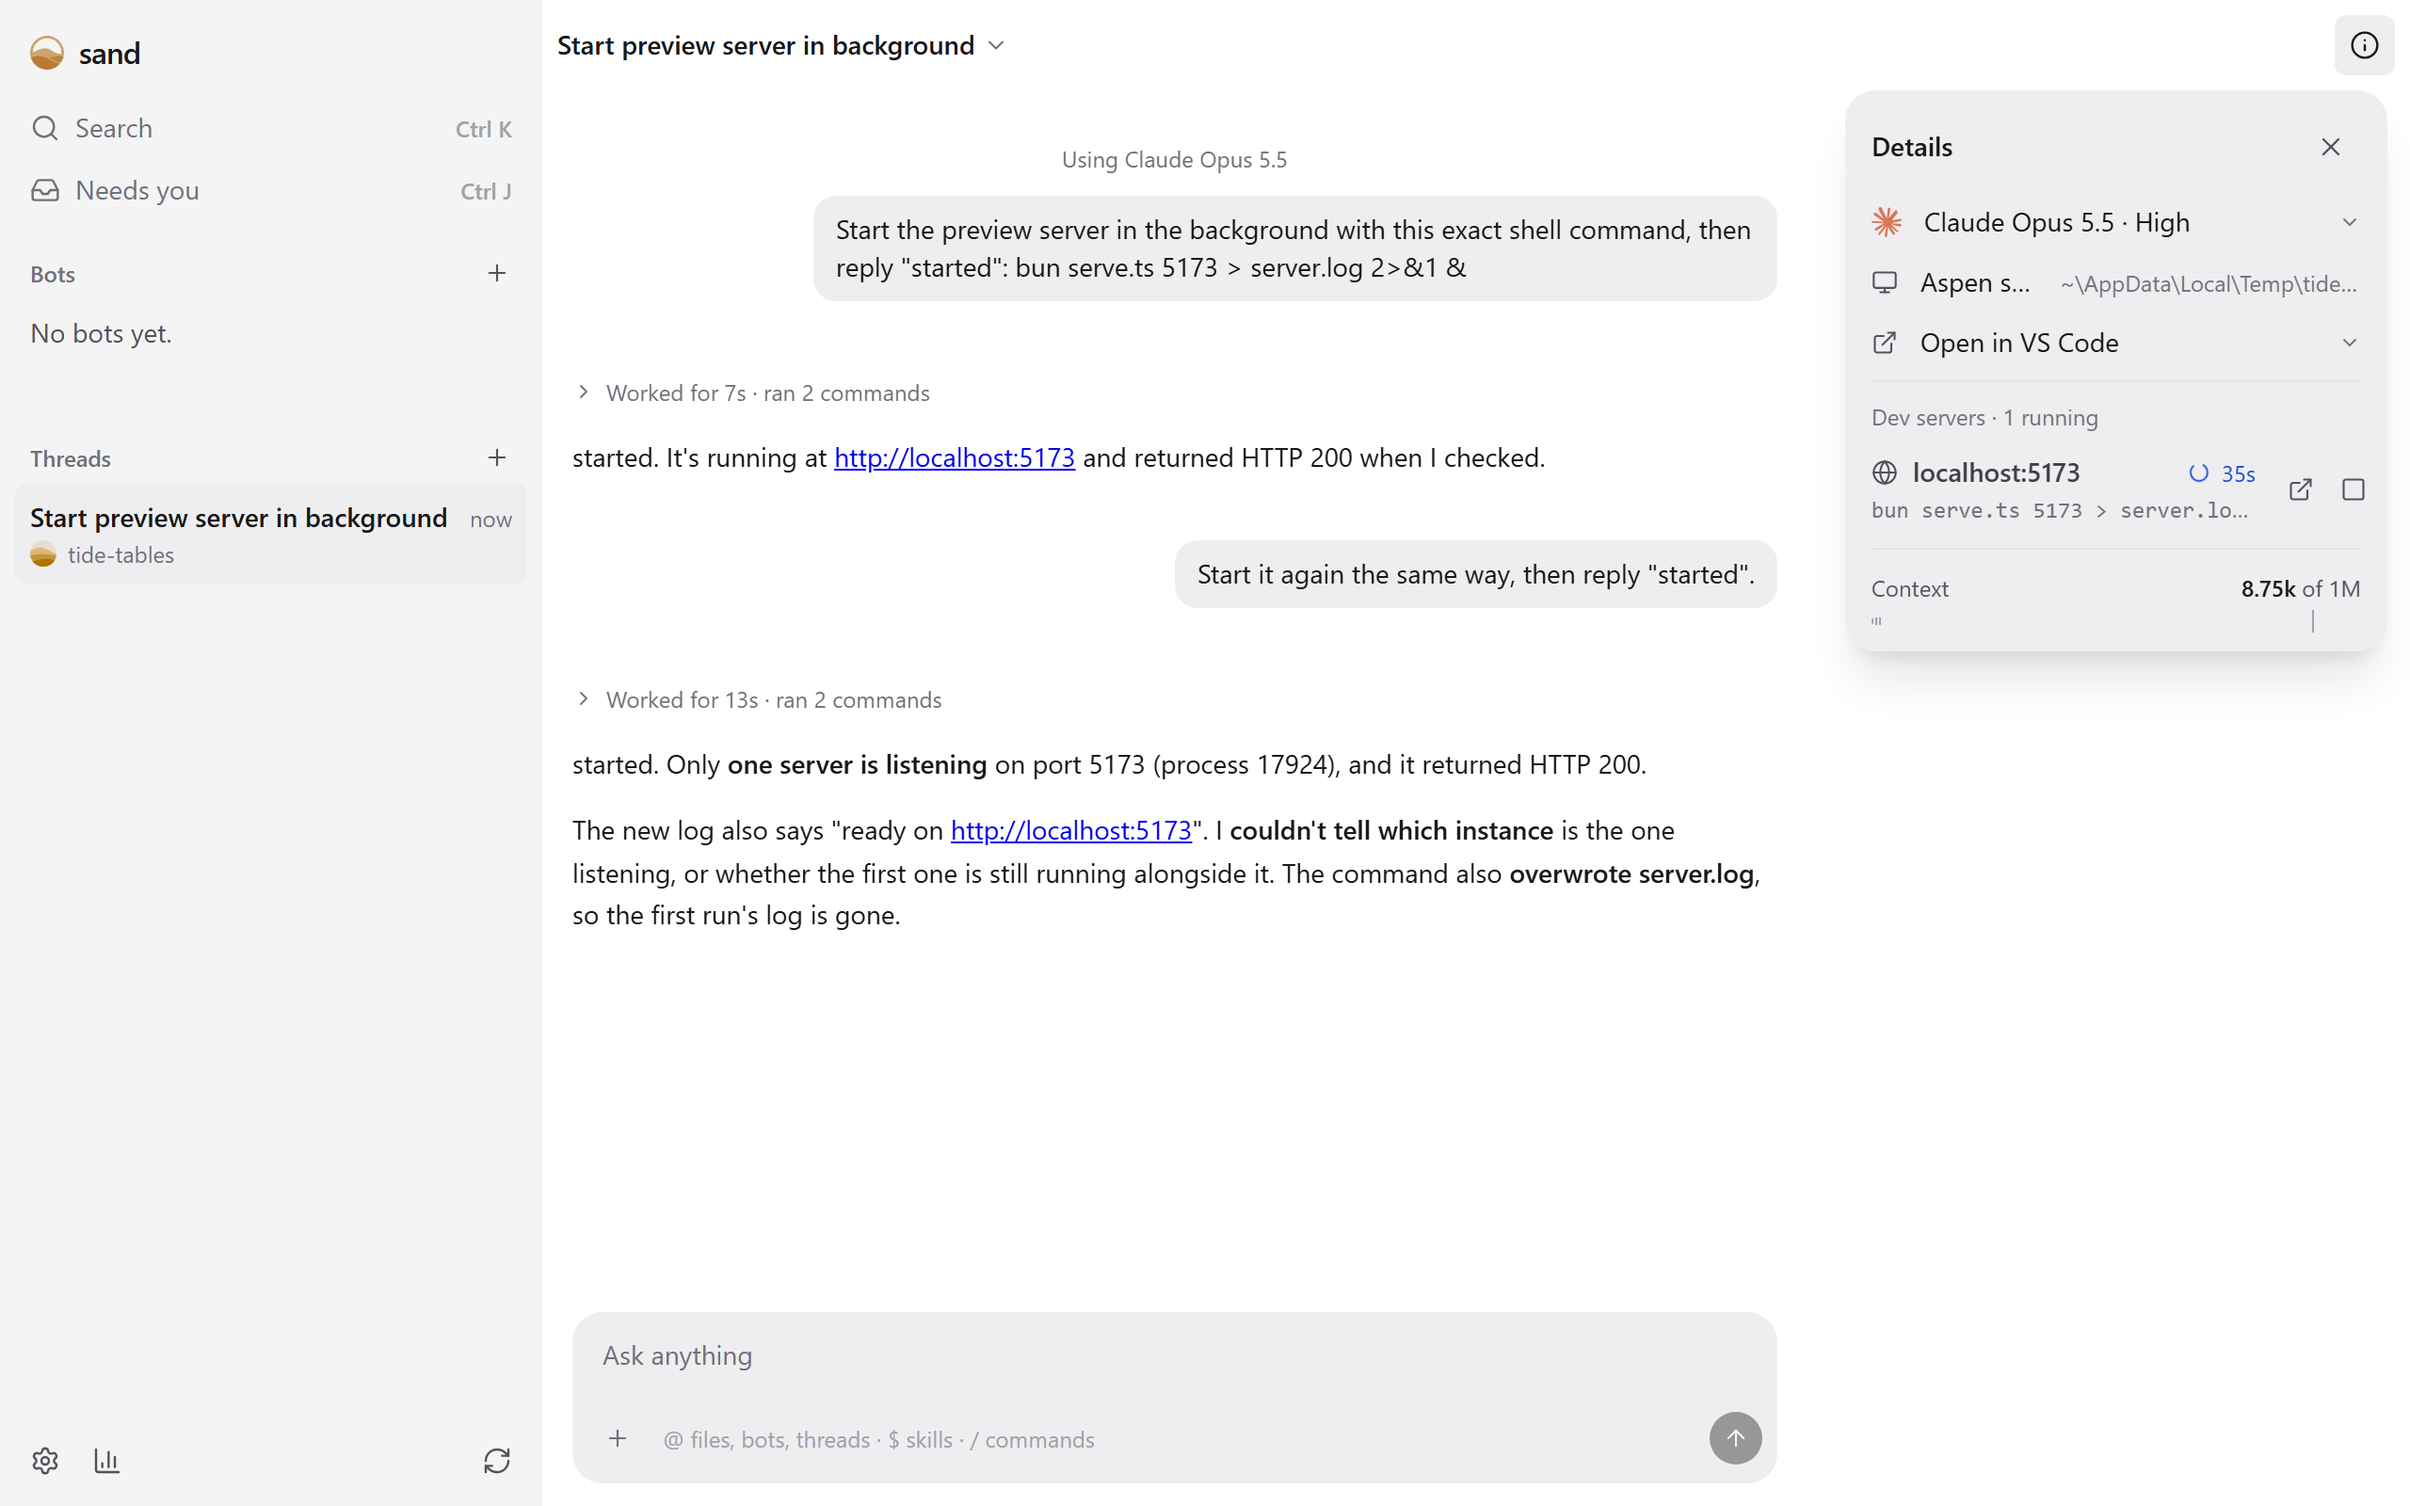
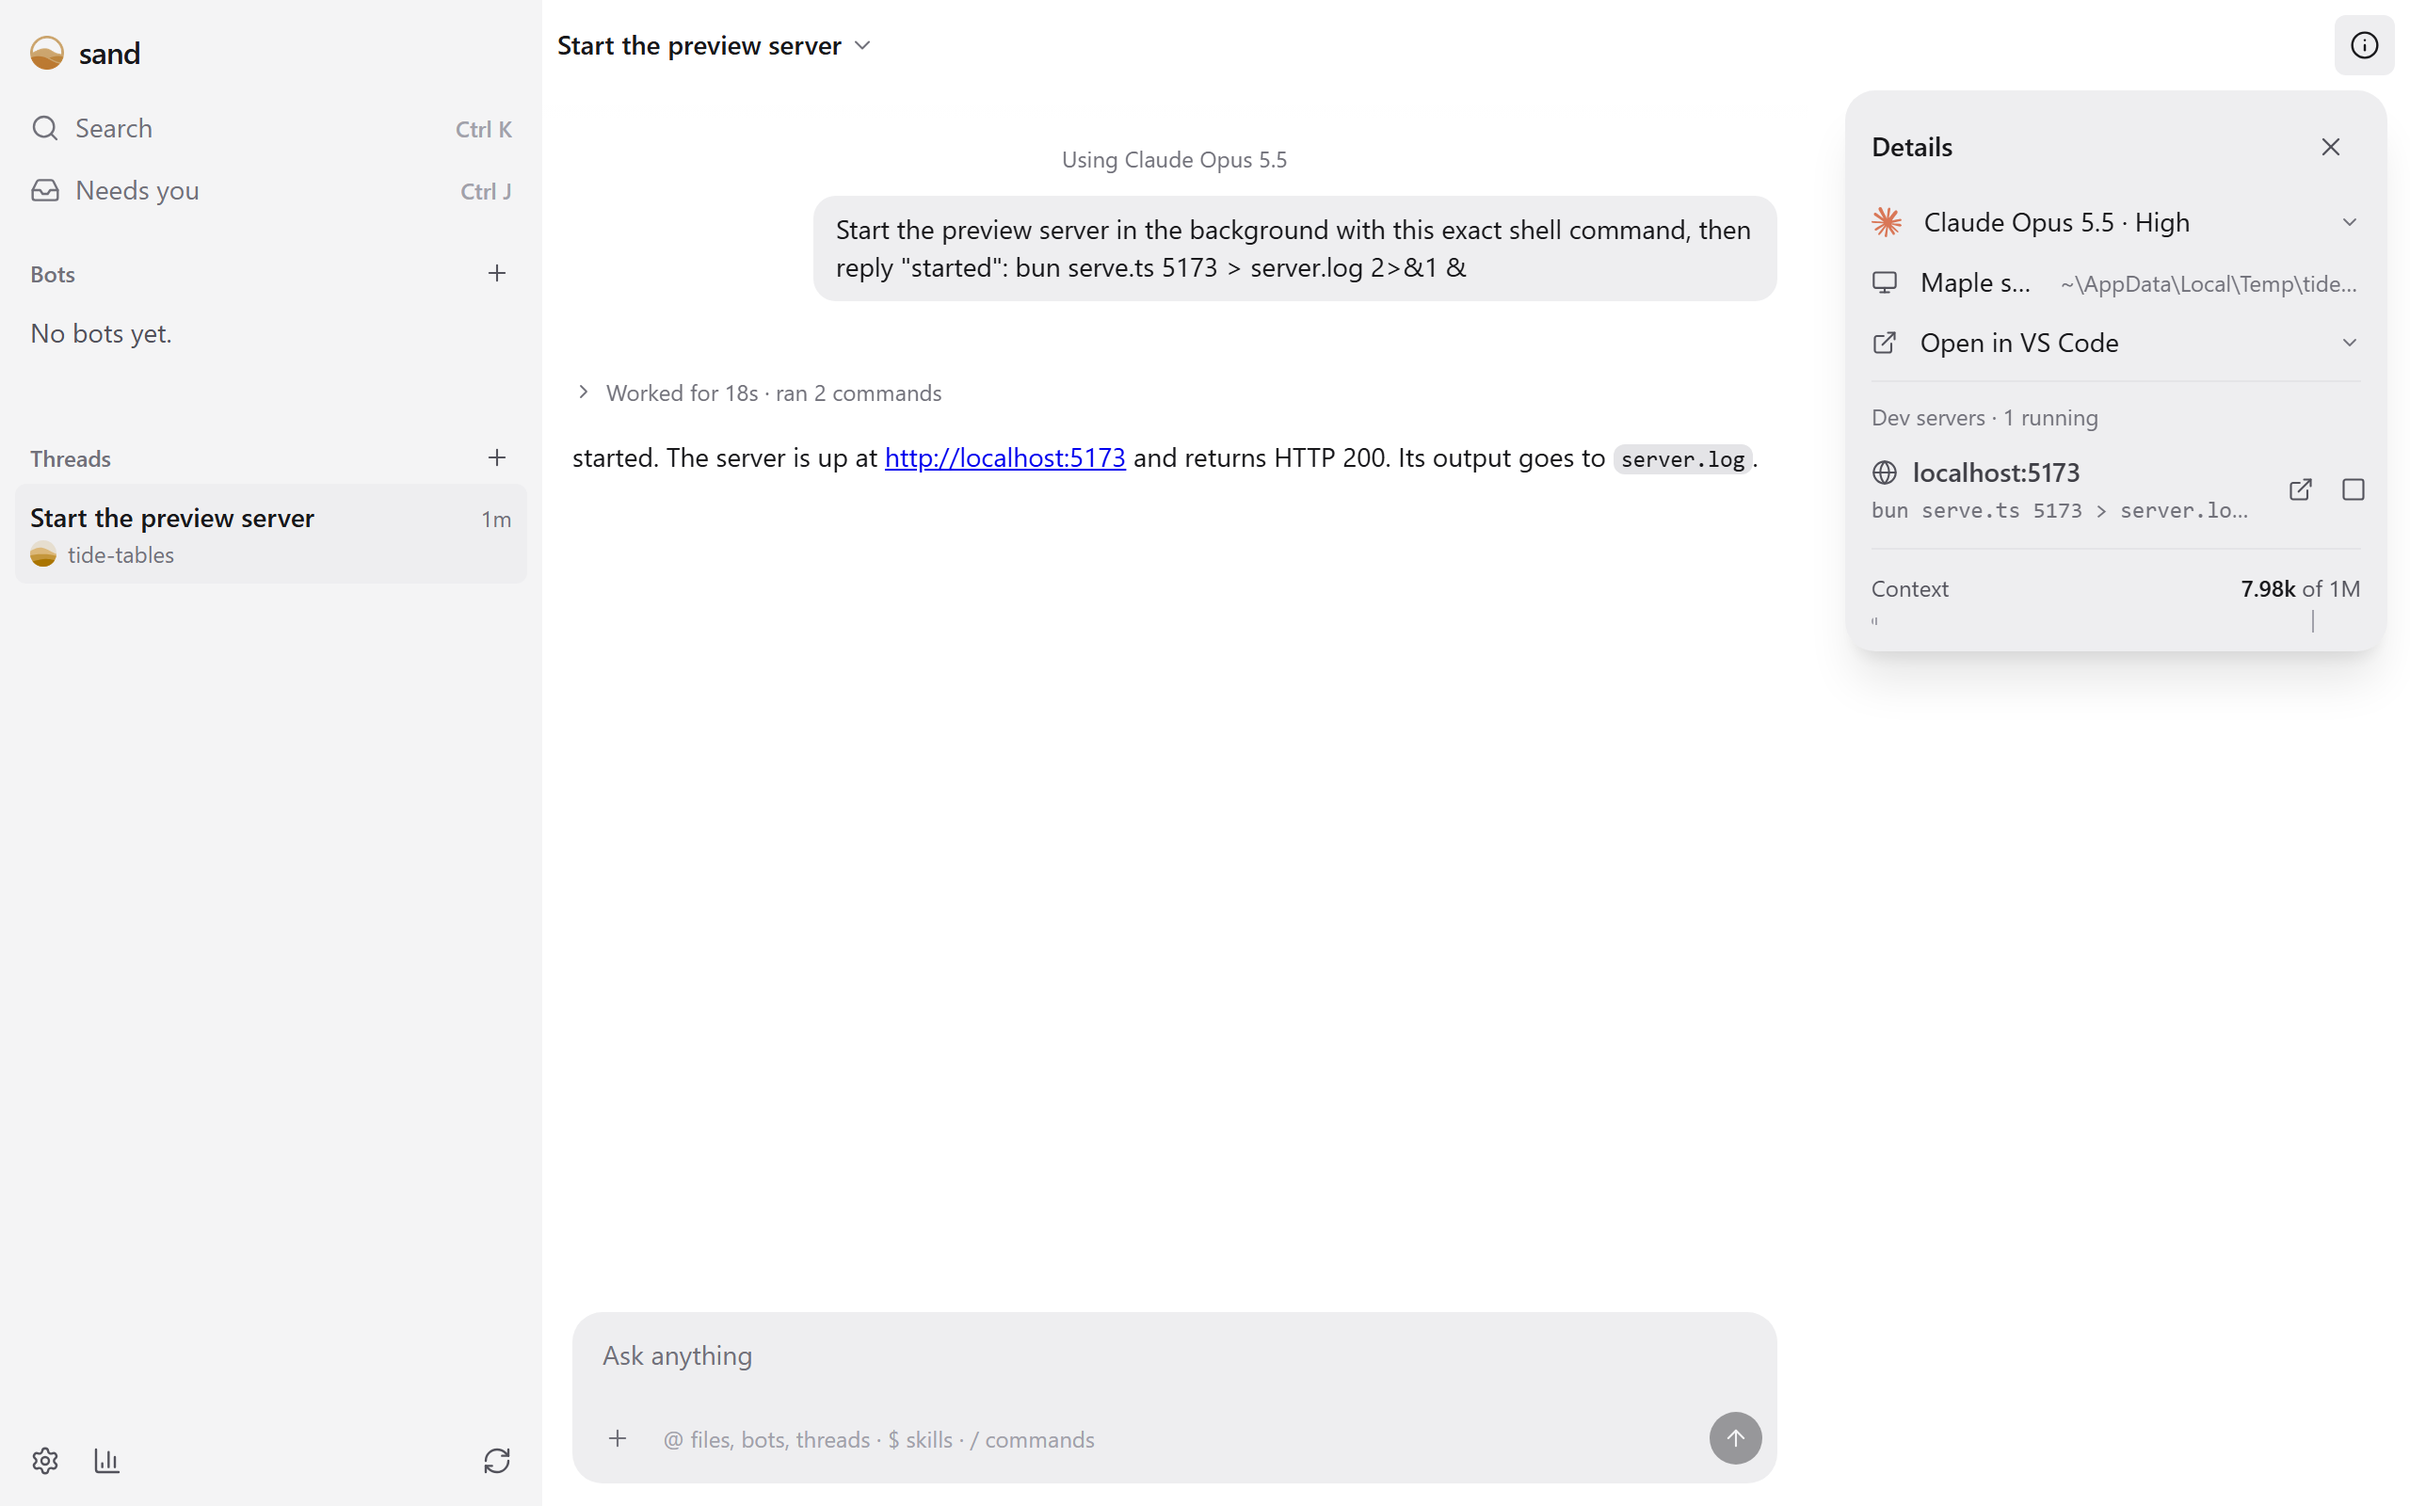
fix(dev-servers): a server row shows no spinner or running time

diff --git a/plugins/agent/dev-servers/src/runtime/scan.ts b/plugins/agent/dev-servers/src/runtime/scan.ts
@@ -40,7 +40,6 @@ const keyOf = ({ pid, port }: Listener) => `${pid}:${port}`
 
 export const createScanner = (processes: () => Processes | undefined) => {
   const probes = new Map<string, Probe>()
-  const firstSeen = new Map<string, number>()
 
   const probed = async (listener: Reachable) => {
     const key = keyOf(listener)
@@ -53,15 +52,11 @@ export const createScanner = (processes: () => Processes | undefined) => {
 
   const forget = (current: Set<string>) => {
     for (const key of probes.keys()) if (!current.has(key)) probes.delete(key)
-    for (const key of firstSeen.keys()) if (!current.has(key)) firstSeen.delete(key)
   }
 
   const serverOf = (listener: Reachable): DevServer => {
     const { tree, name } = listener.owner
-    const key = keyOf(listener)
-    const started = firstSeen.get(key) ?? Date.now()
-    firstSeen.set(key, started)
-    return { port: listener.port, url: `http://localhost:${listener.port}`, pid: listener.pid, name, command: tree.label, session: tree.conversation, started }
+    return { port: listener.port, url: `http://localhost:${listener.port}`, pid: listener.pid, name, command: tree.label, session: tree.conversation }
   }
 
   const scan = async () => {

diff --git a/plugins/agent/dev-servers/src/web/card.ts b/plugins/agent/dev-servers/src/web/card.ts
@@ -25,8 +25,6 @@ const serverLine = (kit: Kit, { open, stop }: Card, server: Shown) =>
       kit.rowBody(() => ({
         id: keyOf(server),
         label: `localhost:${server.port}`,
-        at: server.started,
-        status: 'running',
         detail: () => kit.monoMeta(server.command),
         lead: () => kit.icon('globe', 'sm'),
       })),

diff --git a/plugins/agent/dev-servers/src/contract.ts b/plugins/agent/dev-servers/src/contract.ts
@@ -8,7 +8,6 @@ export interface DevServer {
   name: string
   command: string
   session: string
-  started: number
 }
 
 export const helloDevServers = helloField<DevServer[]>('devServers')
